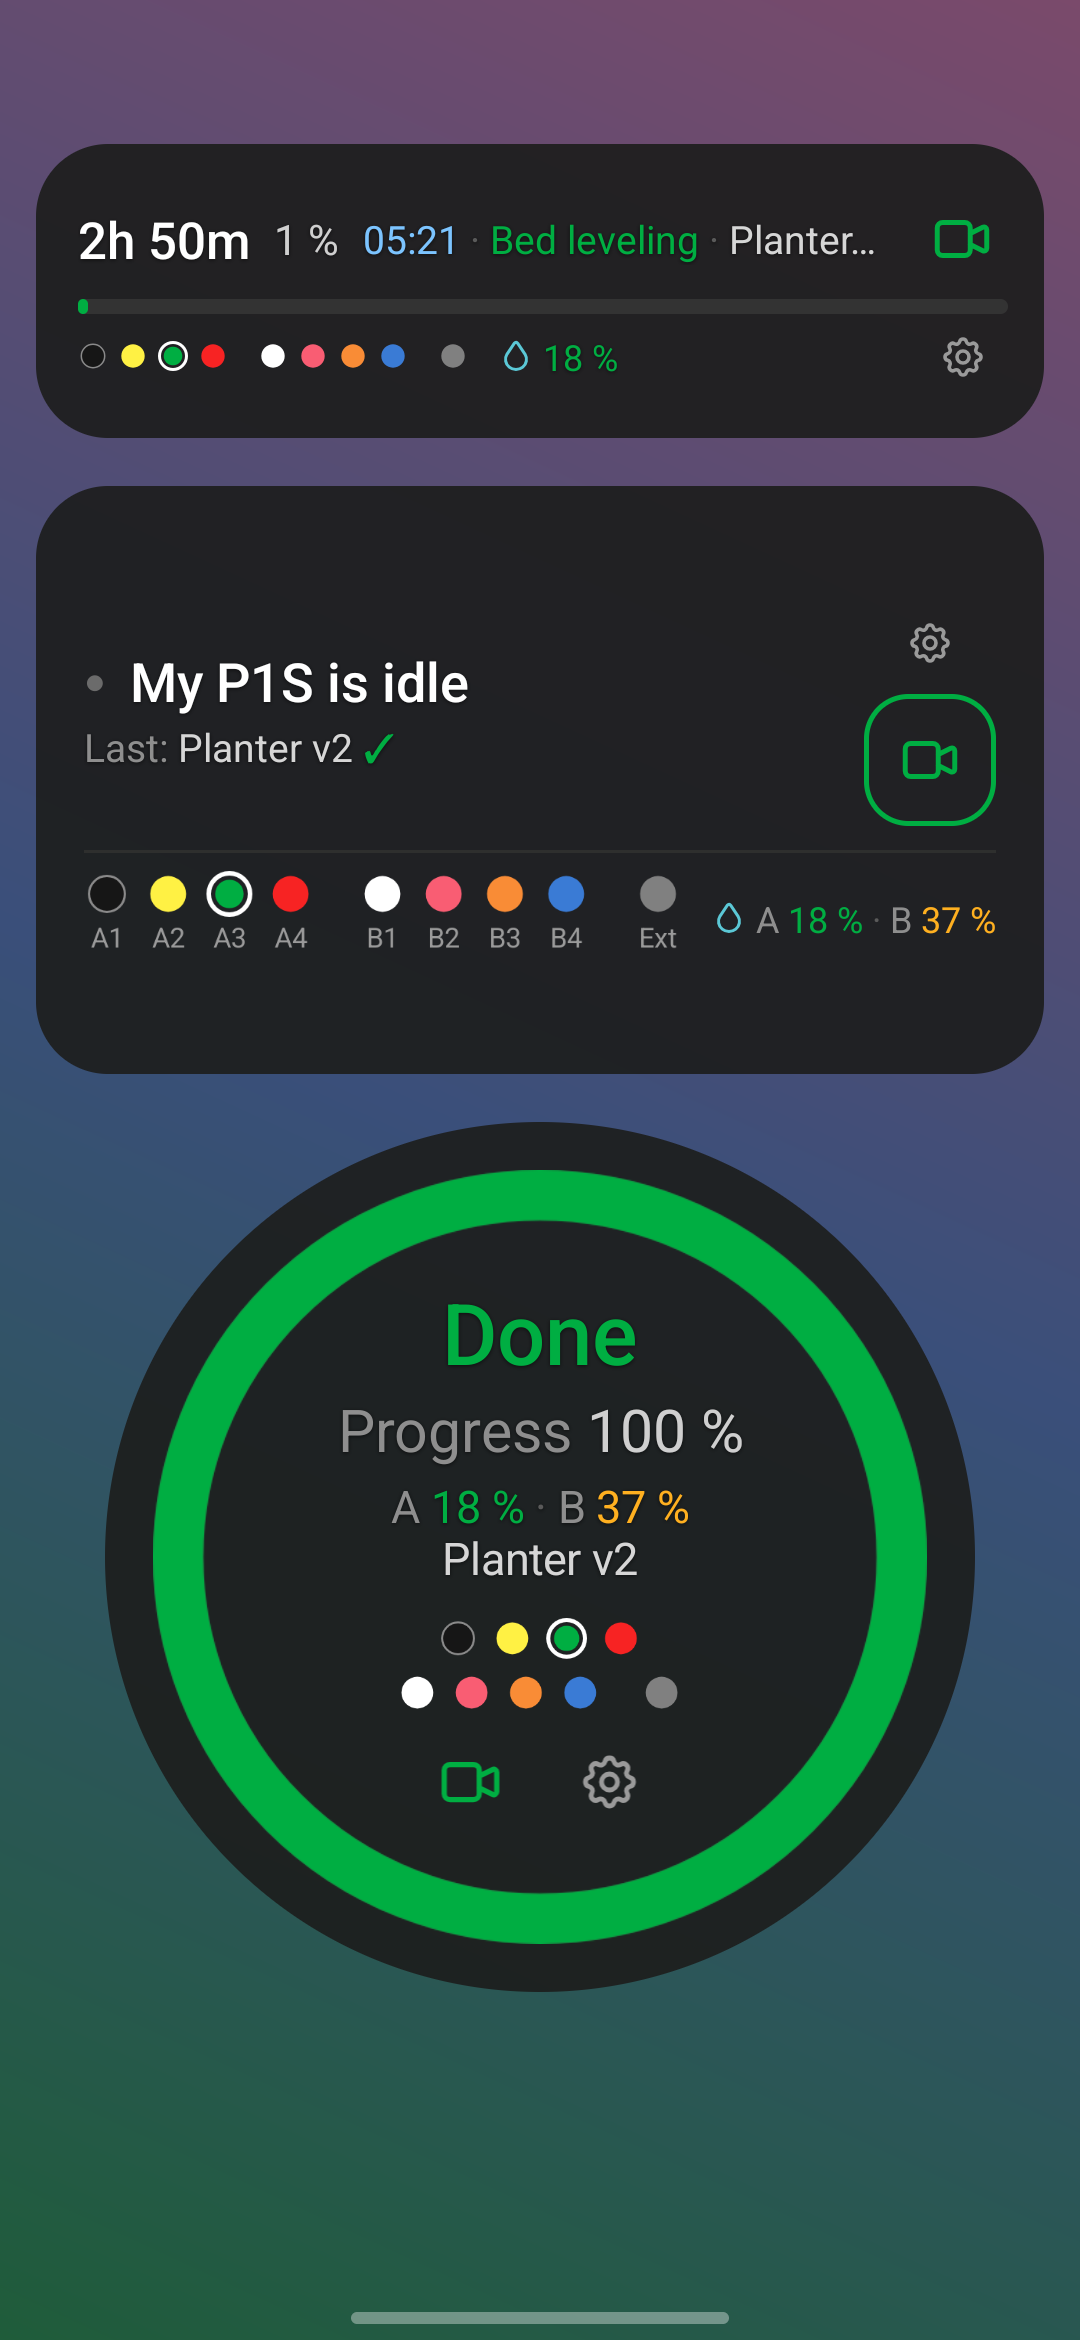
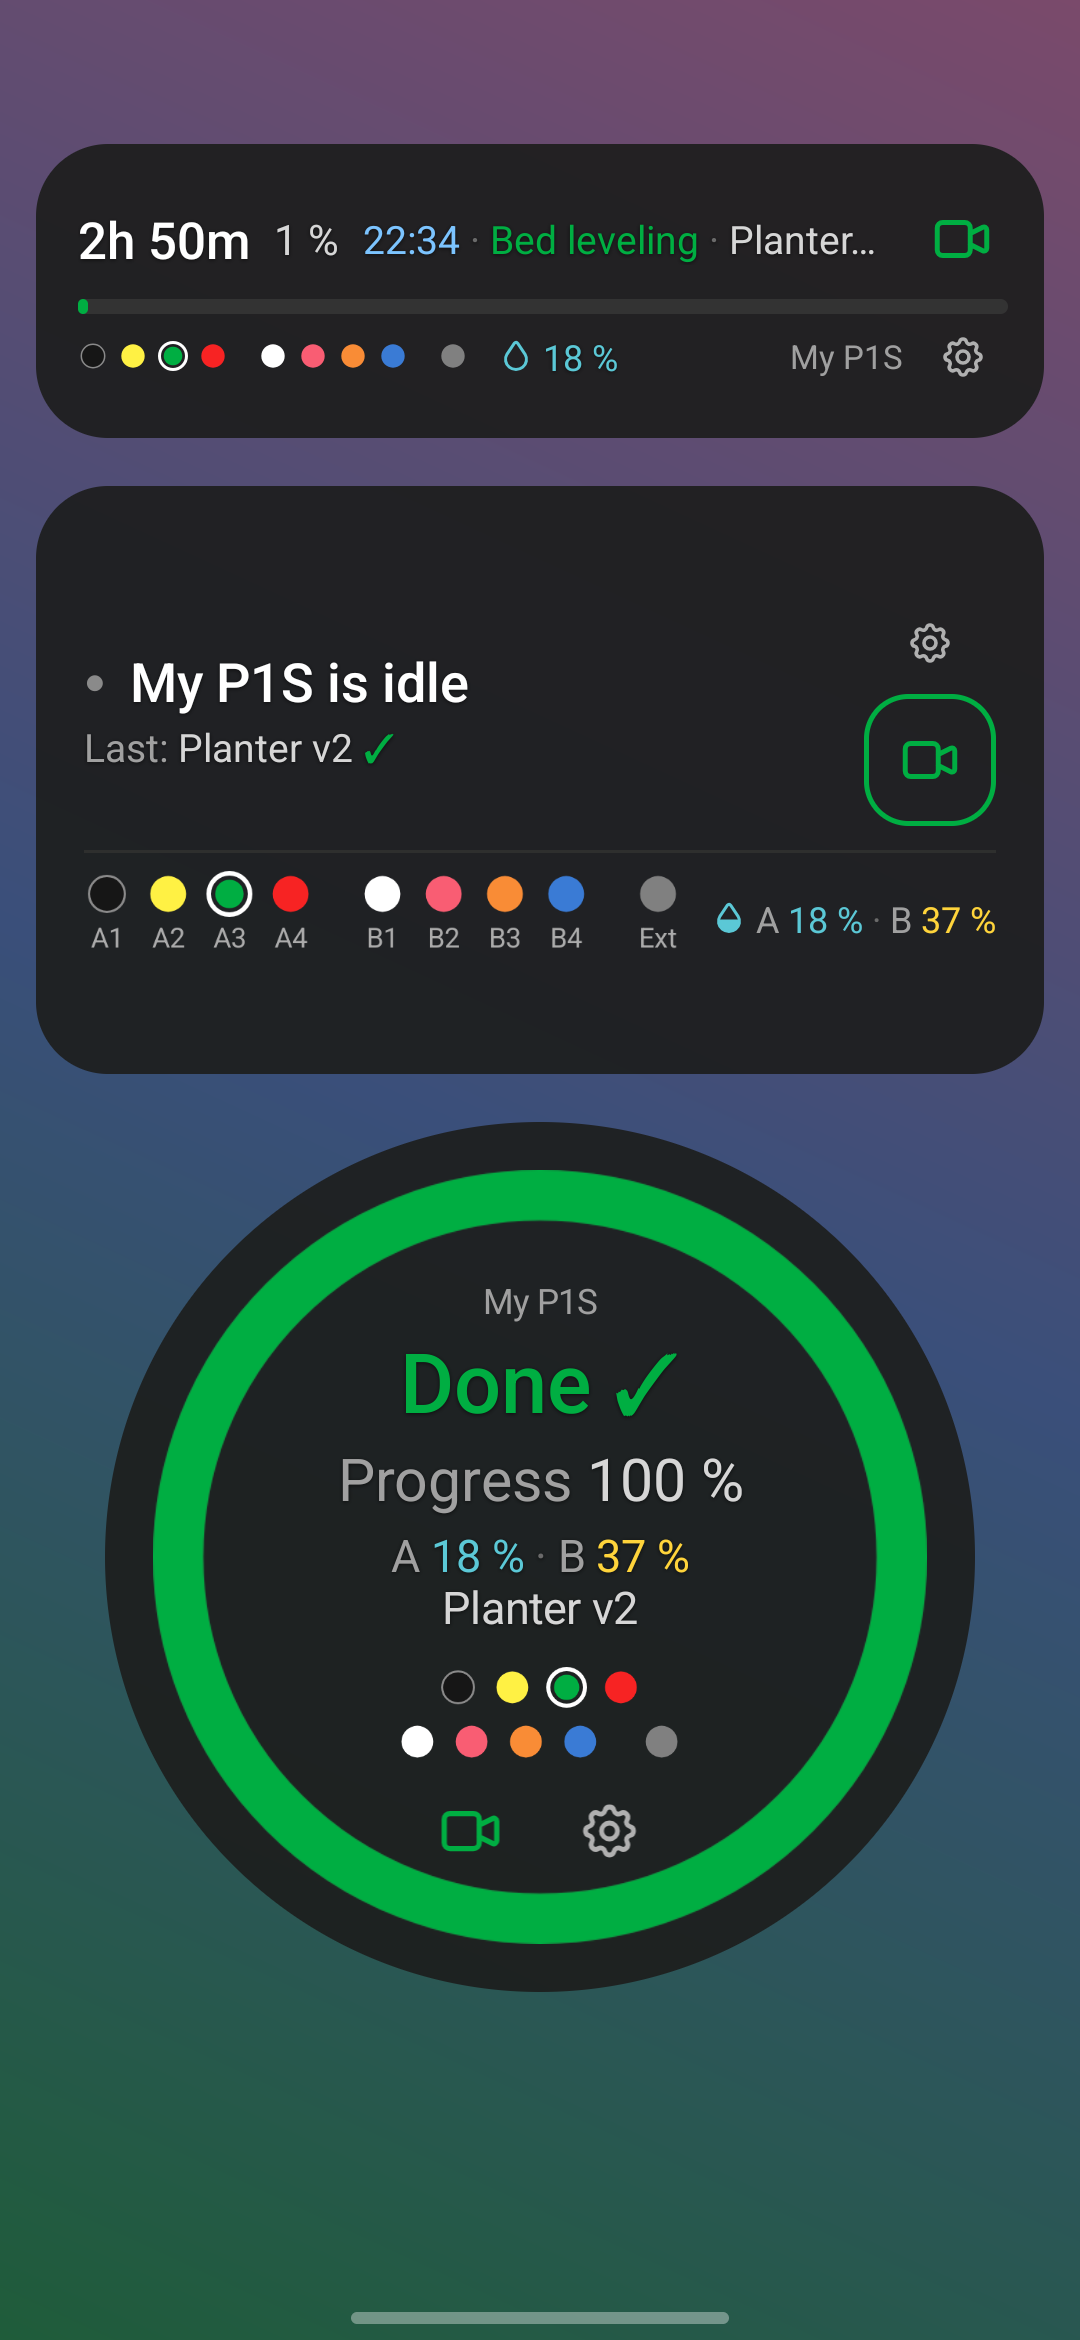
New screenshots with the 1.0.5 look, fourth one for the themes

diff --git a/style.css b/style.css
@@ -44,7 +44,7 @@ nav a { color: var(--dim); text-decoration: none; margin-left: 20px; font-size: 
 nav a:hover { color: var(--text); }
 
 .hero {
-  display: grid; grid-template-columns: 1.1fr 0.9fr; gap: 40px; align-items: center;
+  display: grid; grid-template-columns: 0.85fr 1.15fr; gap: 32px; align-items: center;
   padding: 48px 0 64px;
 }
 .hero h1 { font-size: clamp(36px, 6vw, 56px); line-height: 1.1; margin: 0 0 16px; }
@@ -58,9 +58,9 @@ nav a:hover { color: var(--text); }
 .btn.ghost { background: transparent; color: var(--text); border: 1px solid #4a4a4a; }
 .note { font-size: 13px; color: var(--dim); margin-top: 14px; }
 
-.shots { display: flex; gap: 12px; justify-content: center; }
+.shots { display: flex; gap: 10px; justify-content: center; }
 .shots img {
-  width: 31%; max-width: 190px; min-width: 0; border-radius: 18px;
+  width: 23.5%; max-width: 180px; min-width: 0; border-radius: 18px;
   border: 1px solid var(--line);
 }
 
@@ -102,6 +102,9 @@ footer a { color: var(--dim); }
 
 @media (max-width: 760px) {
   .hero { grid-template-columns: 1fr; padding-top: 24px; }
+  /* Four screenshots: two by two, so they stay readable on a phone */
+  .shots { flex-wrap: wrap; }
+  .shots img { width: 47%; max-width: 220px; }
   .grid { grid-template-columns: 1fr; }
   .about { grid-template-columns: 1fr; }
   nav a { margin-left: 12px; font-size: 14px; }
@@ -136,9 +139,10 @@ footer a { color: var(--dim); }
 }
 .join-shots { margin: 4px 0 24px; justify-content: flex-start; }
 .join-shots img { max-width: 220px; }
-.join-shots a { width: 31%; max-width: 220px; }
+.join-shots a { width: 23.5%; max-width: 190px; }
 .join-shots a img { width: 100%; max-width: none; display: block; }
 .shots-note { margin: -16px 0 20px; }
+@media (max-width: 760px) { .join-shots a { width: 47%; max-width: 220px; } }
 
 /* FAQ: questions that open on tap */
 .faq { display: grid; gap: 10px; }

diff --git a/join.html b/join.html
@@ -31,6 +31,7 @@
         <a href="assets/screen-1.png"><img src="assets/screen-1.png" alt="Round widget with a progress ring, time left and filament dots, and a rectangle widget with AMS slots and humidity"></a>
         <a href="assets/screen-2.png"><img src="assets/screen-2.png" alt="Thin strip widget during bed leveling, an idle widget and a round widget after a finished print"></a>
         <a href="assets/screen-3.png"><img src="assets/screen-3.png" alt="Multiple printers widget with six printers"></a>
+        <a href="assets/screen-4.png"><img src="assets/screen-4.png" alt="Light Daylight rectangle widget, dark blue Blueprint round widget and a paused thin strip in Daylight"></a>
       </div>
       <p class="note shots-note">Tap a picture to enlarge it.</p>
 

diff --git a/index.html b/index.html
@@ -39,6 +39,7 @@
         <img src="assets/screen-1.png" alt="Round widget with a progress ring, time left and filament dots, and a rectangle widget with AMS slots and humidity">
         <img src="assets/screen-2.png" alt="Thin strip widget during bed leveling, an idle widget and a round widget after a finished print">
         <img src="assets/screen-3.png" alt="Multiple printers widget with six printers, and a smaller one with two">
+        <img src="assets/screen-4.png" alt="Light Daylight rectangle widget, dark blue Blueprint round widget and a paused thin strip in Daylight">
       </div>
     </div>
   </div>
